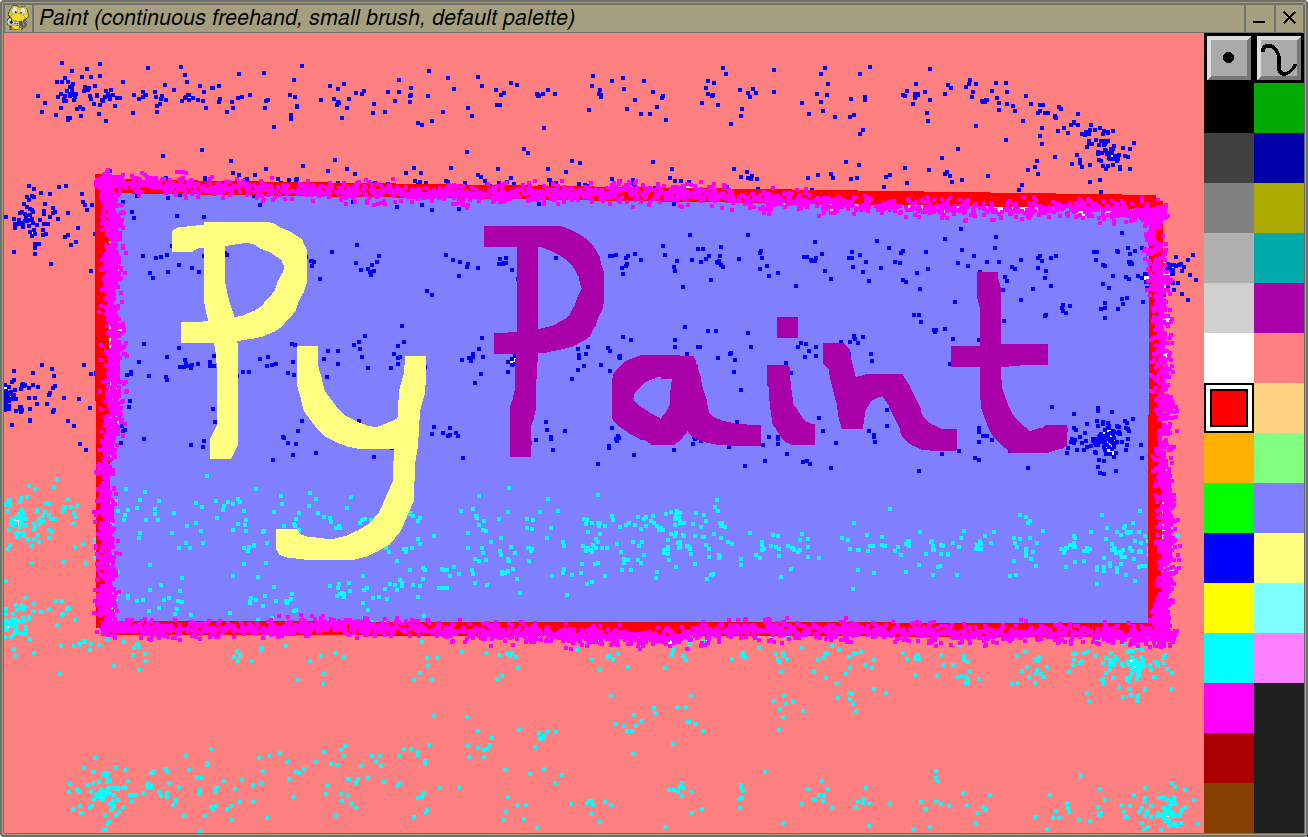
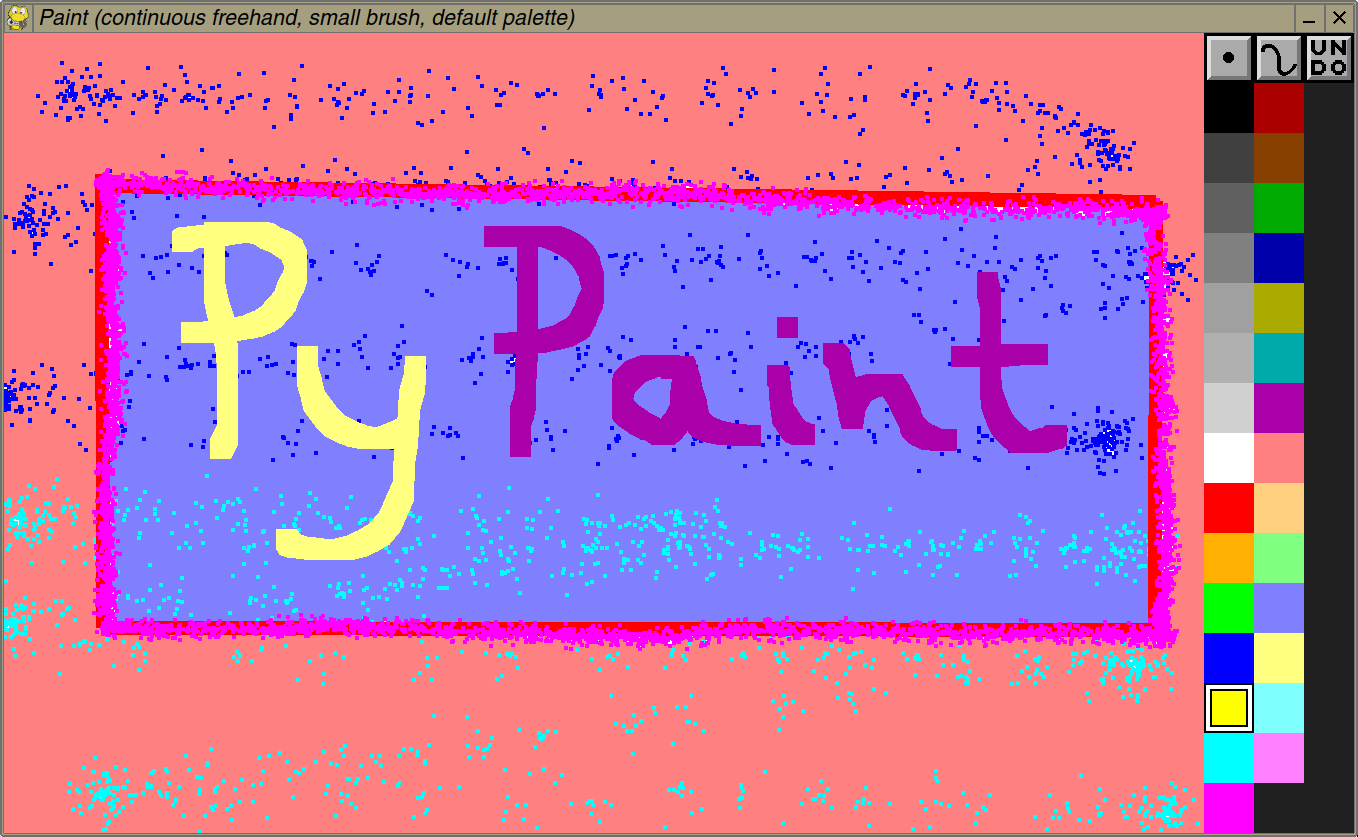
add undo button

diff --git a/pypaint.py b/pypaint.py
@@ -28,8 +28,8 @@ AIRSIZE = 4
 # palette box size
 PALBW = 50
 
-# palette horizontal entries
-PALHE = 2
+# palette columns
+PALHE = 3
 
 # background color
 COLBG = 0x202020
@@ -40,7 +40,9 @@ COLBG = 0x202020
 cols_s = [
 0,
 0x404040, # black, white, and grays
+0x606060,
 0x808080,
+0xa0a0a0,
 0xb0b0b0,
 0xd0d0d0,
 0xffffff,
@@ -105,7 +107,7 @@ cols_p = [
 # DPaint
 cols_d = [
 0,
-0xffffff,
+0xa0a0a0,
 0xee0000,
 0xaa0000,
 0xdd8800,
@@ -135,6 +137,7 @@ cols_d = [
 0xcccccc,
 0xdddddd,
 0xeeeeee,
+0xffffff,
 ]
 
 # Mostly empty palette (meant for picking colors from images)
@@ -158,6 +161,7 @@ for n in range(5):
     icons.append(img)
 brico_s = pygame.image.load(os.path.join("img", "brsmall.png"))
 brico_b = pygame.image.load(os.path.join("img", "brbig.png"))
+b_undo  = pygame.image.load(os.path.join("img", "undo.png"))
 
 # modified version of code at
 # https://stackoverflow.com/questions/41656764/how-to-implement-flood-fill-in-a-pygame-surface
@@ -263,6 +267,10 @@ class Paint:
                         if self.tool > len(tname) - 1:
                             self.tool = 0
                         self.title()
+                    if yp < 0 and xp == 2:
+                        if len(self.undo) >= 2:
+                            self.img = self.undo[-2].copy()
+                            self.undo = [self.undo[-1], self.undo[-2]]
                 elif event.button == 2:
                     self.small_brush = not self.small_brush
                     self.title()
@@ -279,9 +287,10 @@ class Paint:
                         else: br = LSIZE
                         pygame.draw.line(self.img, self.cols[self.col],
                             self.line_start, pygame.mouse.get_pos(), width = br)
-                    self.undo.append(self.img.copy())
-                    if len(self.undo) > 2:
-                        self.undo = self.undo[-2:]
+                    if pygame.mouse.get_pos()[0] < self.img.get_size()[0]:
+                        self.undo.append(self.img.copy())
+                        if len(self.undo) > 2:
+                            self.undo = self.undo[-2:]
             if event.type == pygame.MOUSEWHEEL:
                 self.col -= event.y
                 self.col = self.col % len(self.cols)
@@ -403,11 +412,12 @@ class Paint:
                 self.line_start, pygame.mouse.get_pos(), width = br)
         if not self.hide:
             self.screen.blit(self.colpic, (RES[0], 50))
-        self.screen.blit(icons[self.tool], (RES[0] + 50, 0))
-        if self.small_brush:
-            self.screen.blit(brico_s, (RES[0], 0))
-        else:
-            self.screen.blit(brico_b, (RES[0], 0))
+            self.screen.blit(icons[self.tool], (RES[0] + 50, 0))
+            self.screen.blit(b_undo, (RES[0] + 100, 0))
+            if self.small_brush:
+                self.screen.blit(brico_s, (RES[0], 0))
+            else:
+                self.screen.blit(brico_b, (RES[0], 0))
         pygame.display.flip()
 
 c = Paint()
